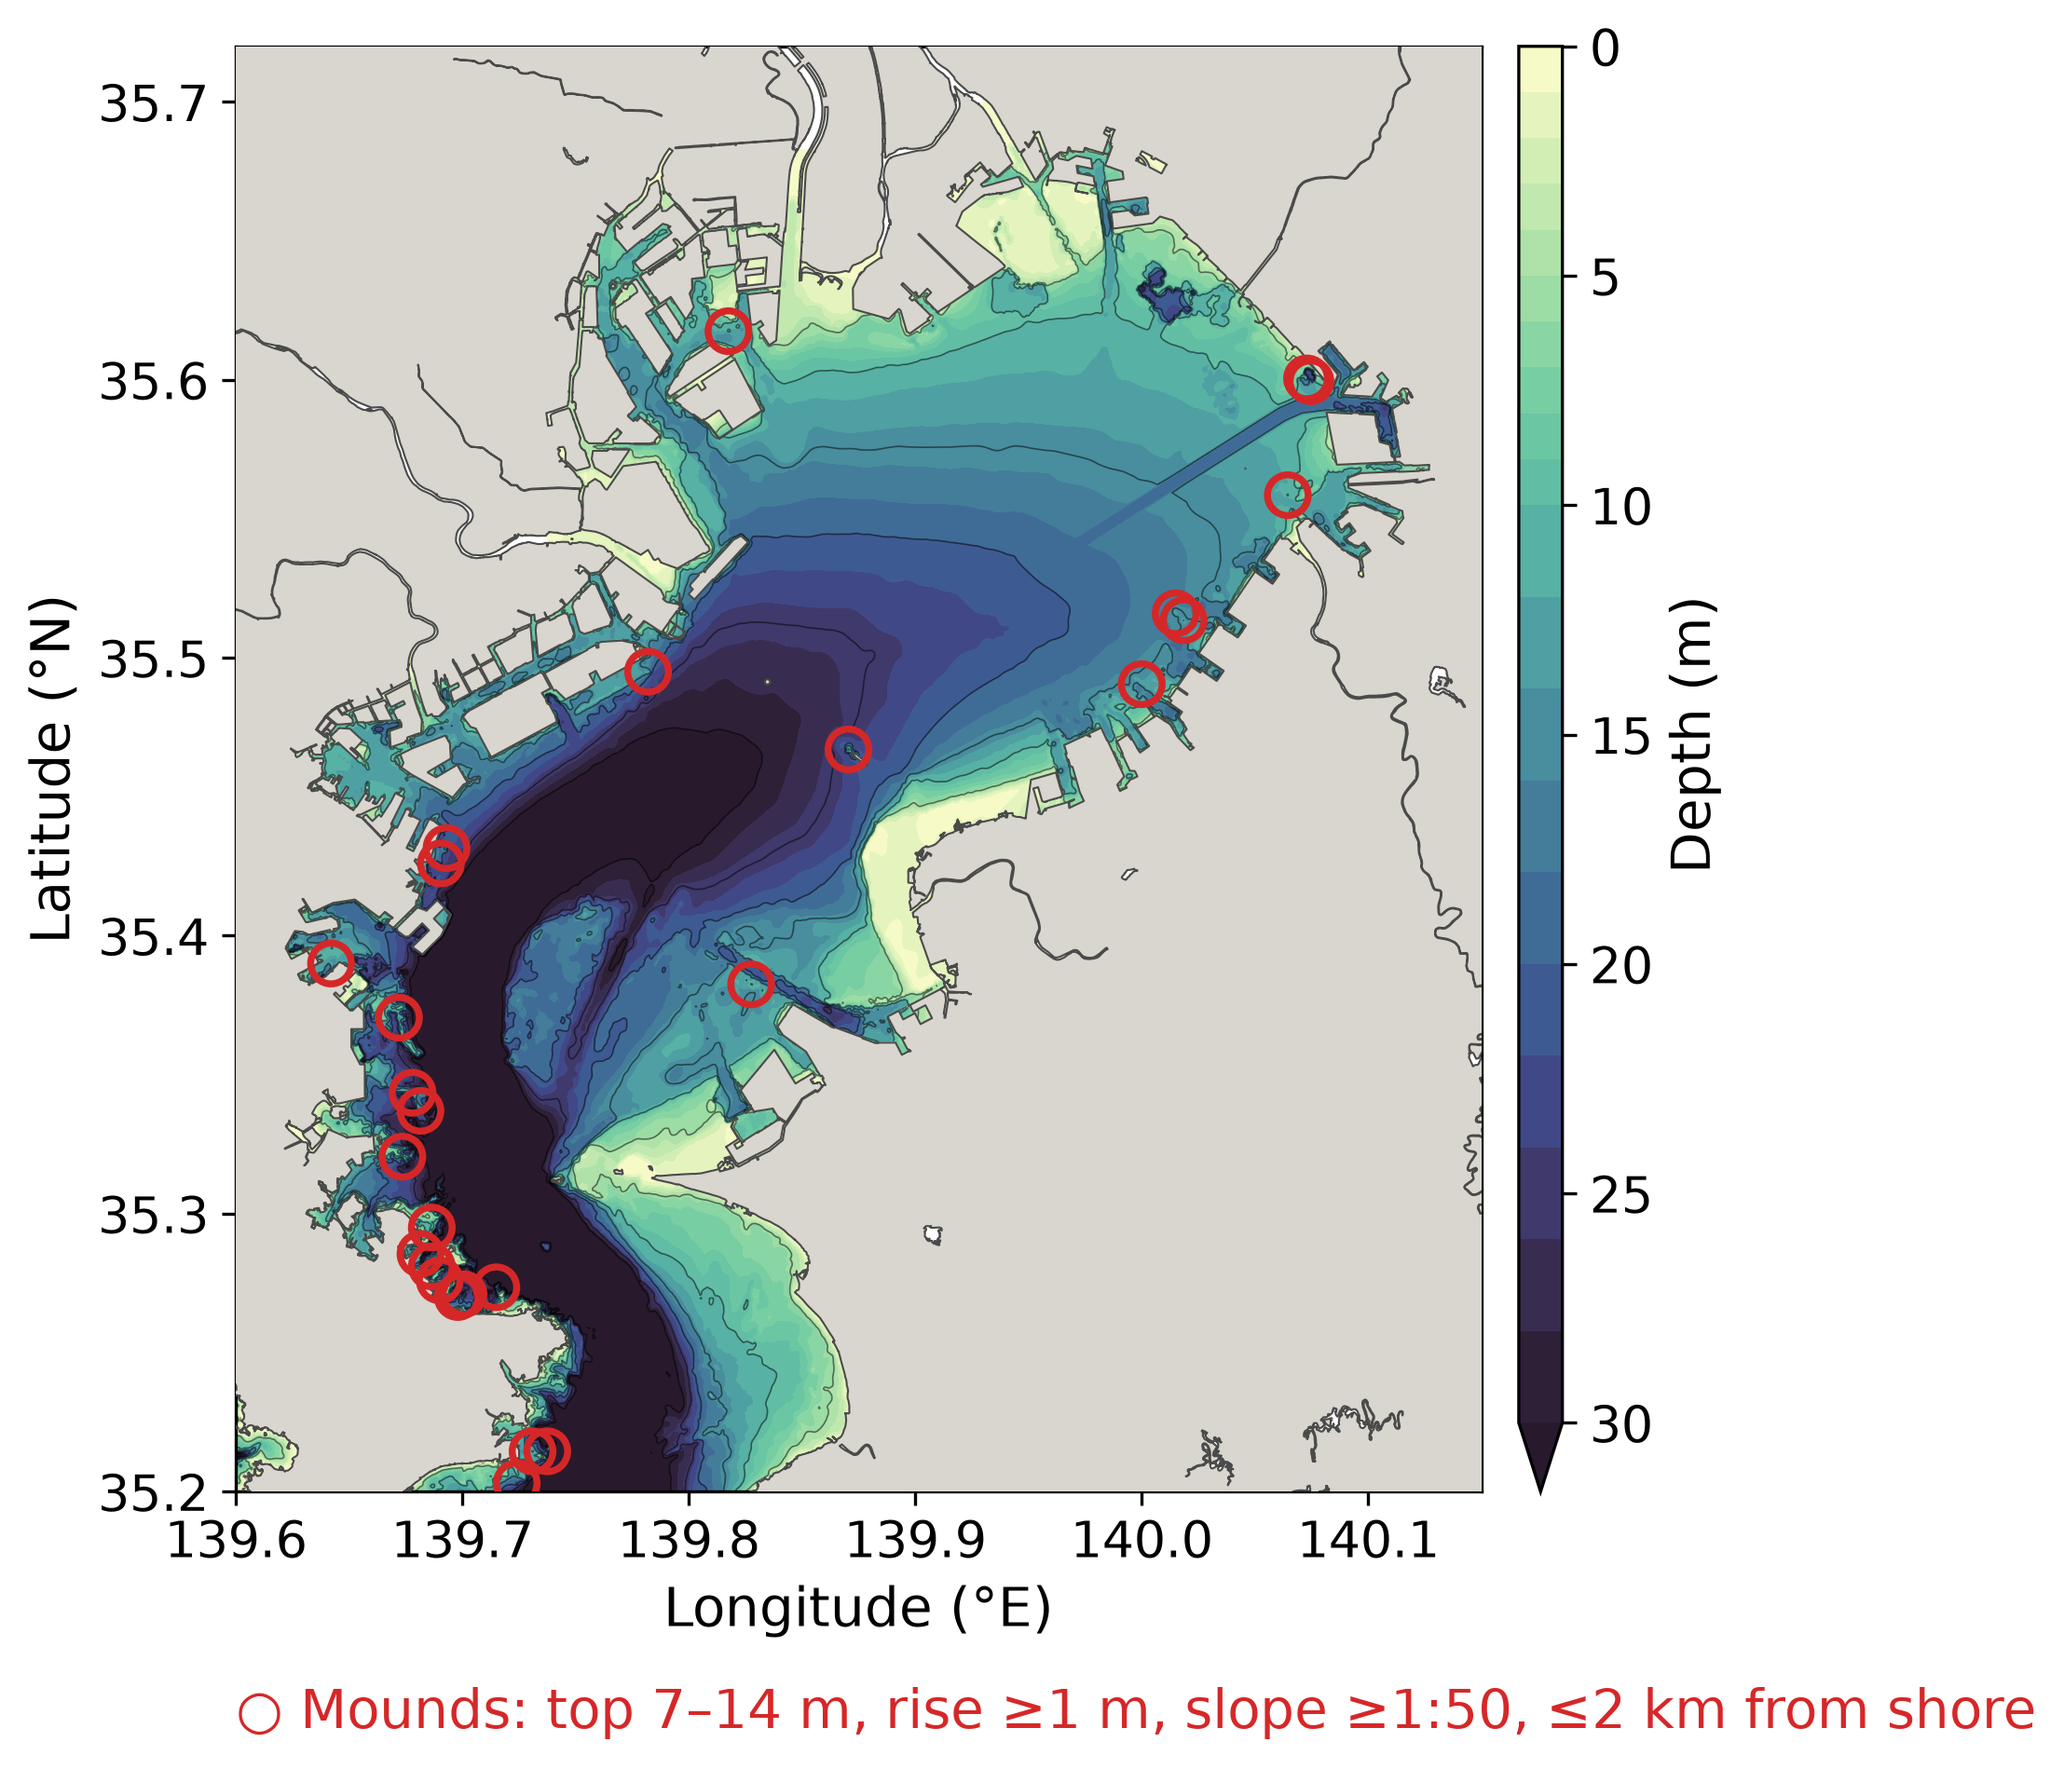
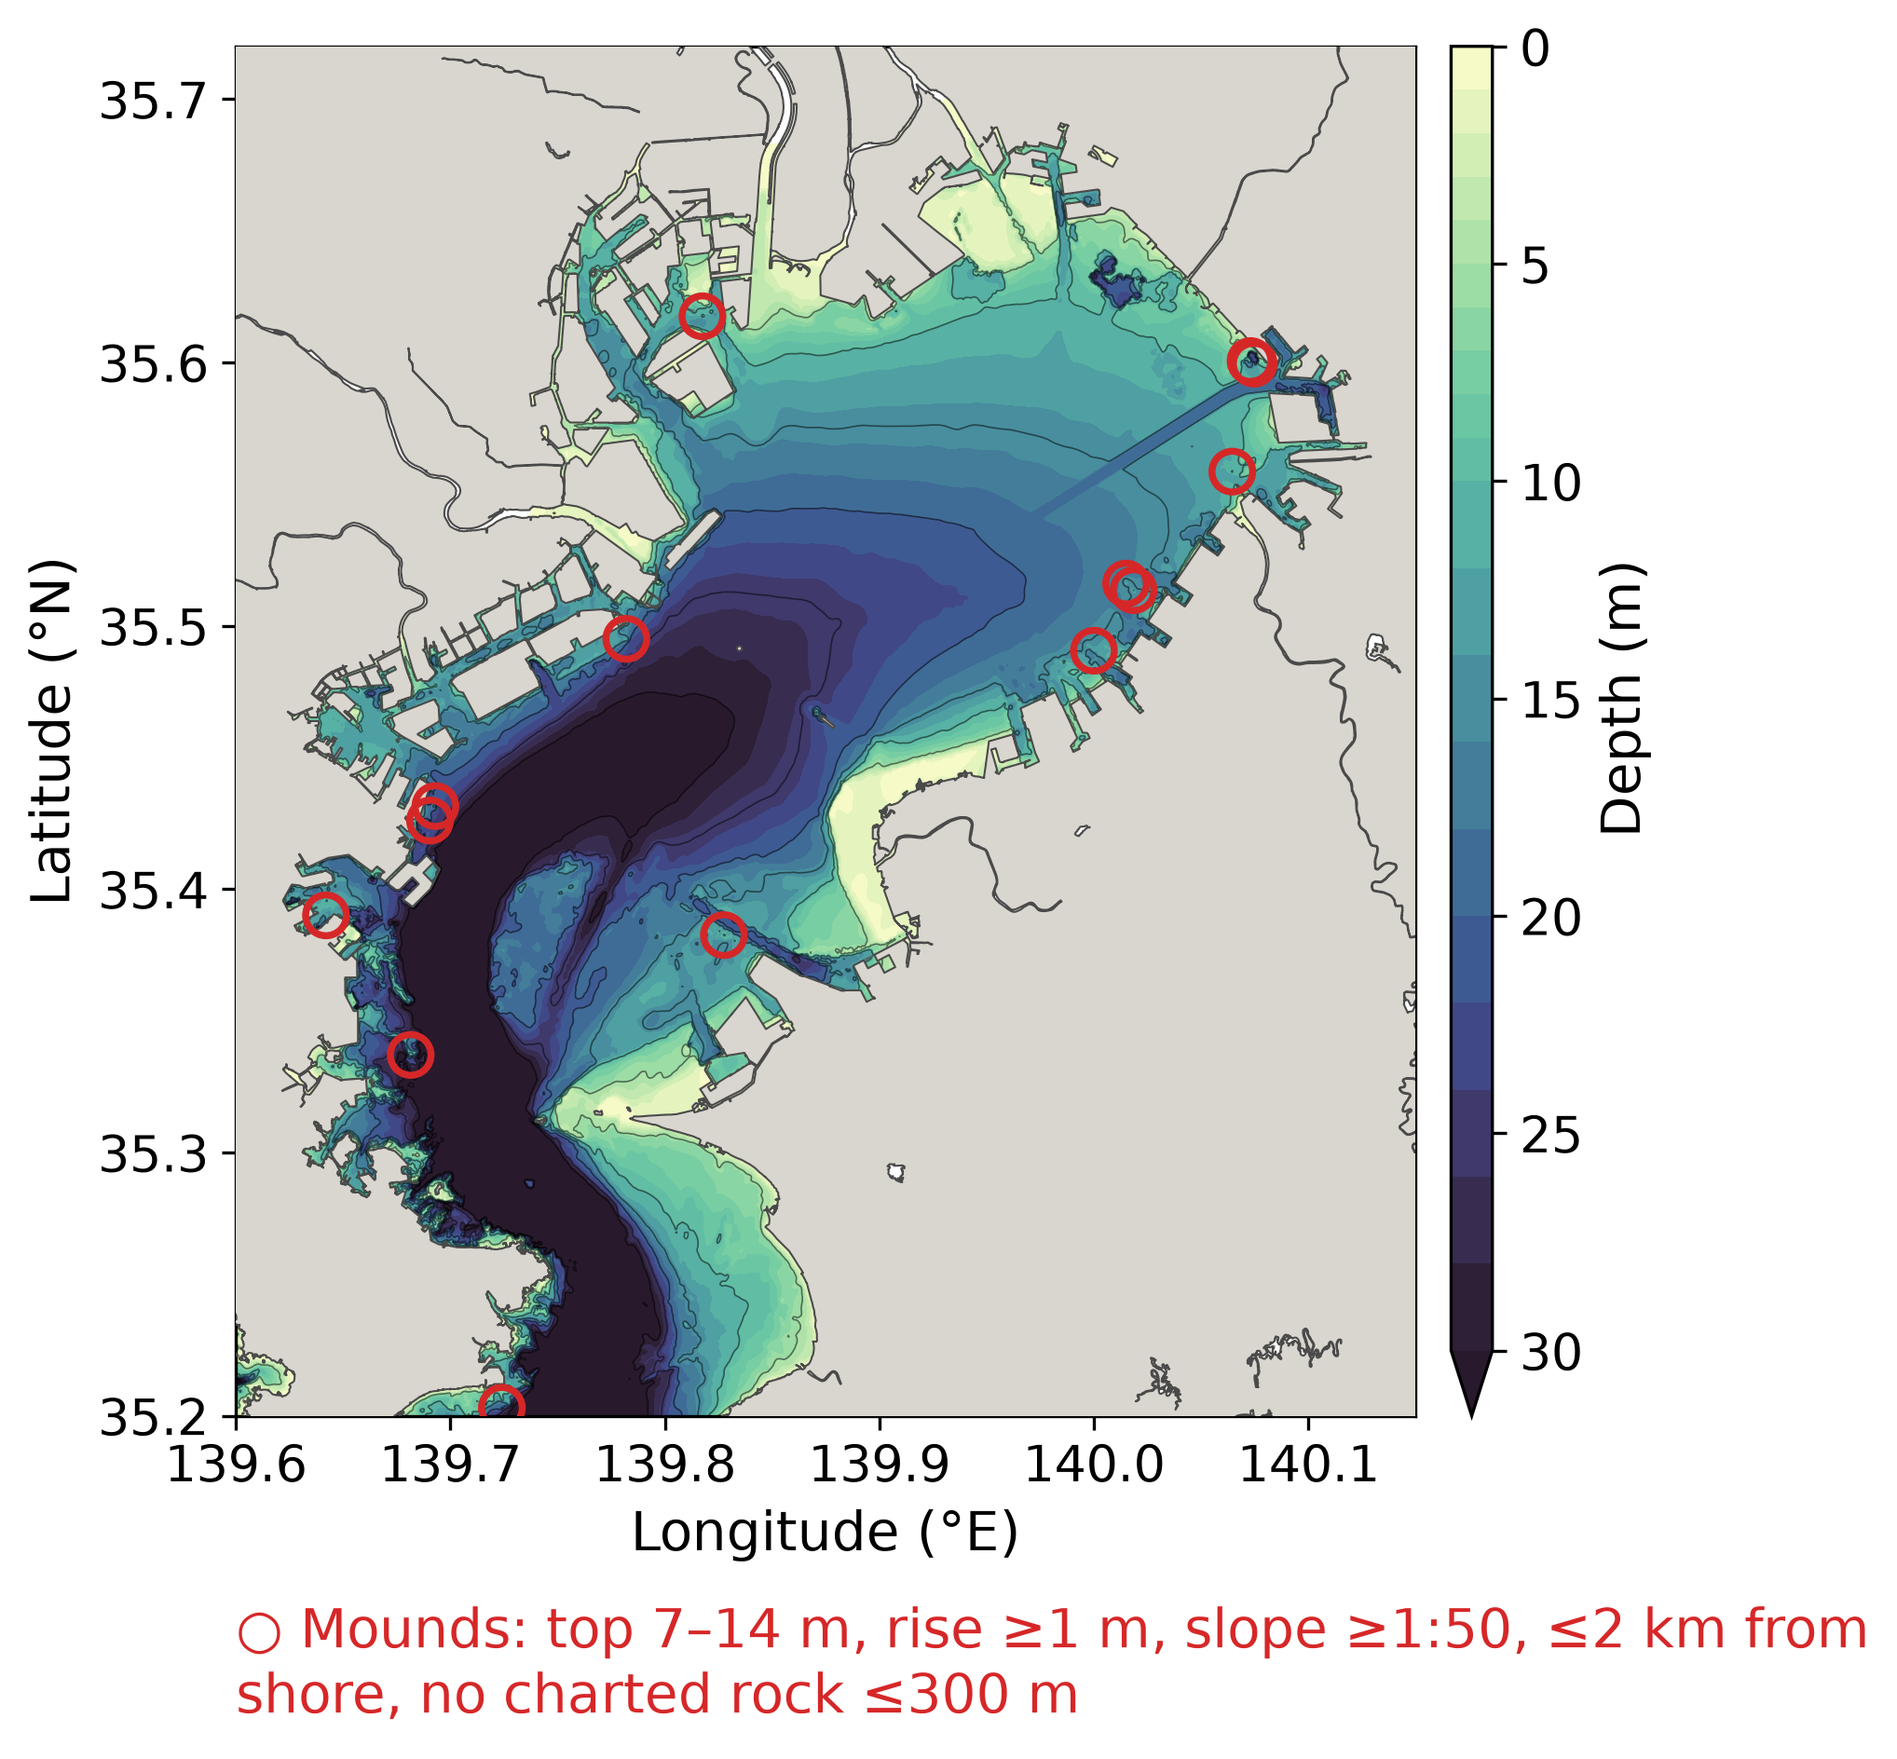
Mounds: drop Umi-hotaru and mounds on charted rock
plot_depth_map.py gains --mound-exclude-box (repeatable) and
--mound-exclude-points/--mound-exclude-classes/--mound-exclude-radius (drop a
mound with a classified point of those classes near its top), and the
criteria line wraps. The Tokyo Bay map excludes Umi-hotaru (Aqua-Line
artificial island, commented in the job script) and, with the 海しる chart
substrate points archived by the sediment repository, mounds with charted
rock within 300 m: 27 -> 14 (12 on the Miura shore dropped). The Boso
close-up keeps its 3 mounds (no rock within 300 m).

Claude-Session: https://claude.ai/code/session_01MhU6iDzaQKBG9cKa3nrSvL

Changed region(s): [[0.0, 0.0, 0.9902, 1.0], [0.2475, 0.0312, 0.3094, 0.0625], [0.1547, 0.2812, 0.1857, 0.3125]]

diff --git a/scripts/plot_depth_map.py b/scripts/plot_depth_map.py
@@ -87,6 +87,18 @@ def main() -> int:
     # jsasaki 2026-10-24: owner: steep mounds only (sandy tops in a muddy seabed)
     ap.add_argument("--mound-min-slope", type=float, default=0.0,
                     help="minimum mean flank slope = prominence / (base width / 2) (m/m)")
+    #---> jsasaki 2026-10-24: owner: drop artificial structures and charted rock
+    ap.add_argument("--mound-exclude-box", type=float, nargs=4, action="append", default=[],
+                    metavar=("W", "E", "S", "N"),
+                    help="drop mounds inside this box (repeatable; e.g. an artificial island)")
+    ap.add_argument("--mound-exclude-points", type=Path, default=None,
+                    help="CSV of classified seabed points (lon, lat, class), e.g. "
+                         "$DATA_DIR/sediment/substrate/msil_chart_substrate_points.csv")
+    ap.add_argument("--mound-exclude-classes", default="rock",
+                    help="comma-separated classes in --mound-exclude-points that drop a mound")
+    ap.add_argument("--mound-exclude-radius", type=float, default=300.0,
+                    help="drop a mound with such a point within this distance of its top (m)")
+    #<--- jsasaki 2026-10-24
     # jsasaki 2026-10-24: owner: criteria text under the map by default
     ap.add_argument("--no-mound-label", action="store_true",
                     help="do not write the mound criteria under the map")
@@ -164,6 +176,32 @@ def main() -> int:
                             min_slope=args.mound_min_slope,
                             width_range=tuple(args.mound_width) if args.mound_width else None)
         found = [m for m in found if w <= m["lon"] <= e and s <= m["lat"] <= n]
+        #---> jsasaki 2026-10-24: exclusion boxes and nearby classified points
+        for bw, be, bs, bn in args.mound_exclude_box:
+            drop = [m for m in found if bw <= m["lon"] <= be and bs <= m["lat"] <= bn]
+            for m in drop:
+                print(f"  excluded (box {bw:g} {be:g} {bs:g} {bn:g}): {m['lon']:.5f} E {m['lat']:.5f} N")
+            found = [m for m in found if m not in drop]
+        excl_classes = [c.strip() for c in args.mound_exclude_classes.split(",") if c.strip()]
+        if args.mound_exclude_points:
+            pts = []
+            with open(args.mound_exclude_points, newline="", encoding="utf-8") as f:
+                for r in csv.DictReader(f):
+                    if r["class"] in excl_classes:
+                        pts.append((float(r["lon"]), float(r["lat"])))
+            pts = np.asarray(pts).reshape(-1, 2)
+            kx = 111_320.0 * np.cos(np.radians((s + n) / 2))
+            keep = []
+            for m in found:
+                dist = np.hypot((pts[:, 0] - m["lon"]) * kx, (pts[:, 1] - m["lat"]) * 111_320.0)
+                dmin = float(dist.min()) if dist.size else np.inf
+                if dmin <= args.mound_exclude_radius:
+                    print(f"  excluded ({'/'.join(excl_classes)} point {dmin:.0f} m): "
+                          f"{m['lon']:.5f} E {m['lat']:.5f} N")
+                else:
+                    keep.append(m)
+            found = keep
+        #<--- jsasaki 2026-10-24
         print(f"mounds: {len(found)} (summit {args.mound_depth[0]:g}-{args.mound_depth[1]:g} m, "
               f"prominence >= {args.mound_prominence:g} m, <= {args.mound_shore_dist:g} m from land, "
               # jsasaki 2026-10-24: report slope / width filters and values
@@ -184,7 +222,13 @@ def main() -> int:
             if args.mound_width:
                 parts.append(f"width {args.mound_width[0]:g}\u2013{args.mound_width[1]:g} m")
             parts.append(f"\u2264{args.mound_shore_dist / 1000:g} km from shore")
-            ax.text(0.0, -0.135, "\u25cb Mounds: " + ", ".join(parts), transform=ax.transAxes,
+            # jsasaki 2026-10-24: say when charted points removed mounds
+            if args.mound_exclude_points:
+                parts.append(f"no charted {'/'.join(excl_classes)} \u2264{args.mound_exclude_radius:g} m")
+            # jsasaki 2026-10-24: wrap onto two lines when long
+            import textwrap
+            label = "\n".join(textwrap.wrap("\u25cb Mounds: " + ", ".join(parts), width=62))
+            ax.text(0.0, -0.135, label, transform=ax.transAxes,
                     ha="left", va="top", fontsize=args.font_size or 12, color="#d62728")
         #<--- jsasaki 2026-10-24
         if args.mound_csv:
